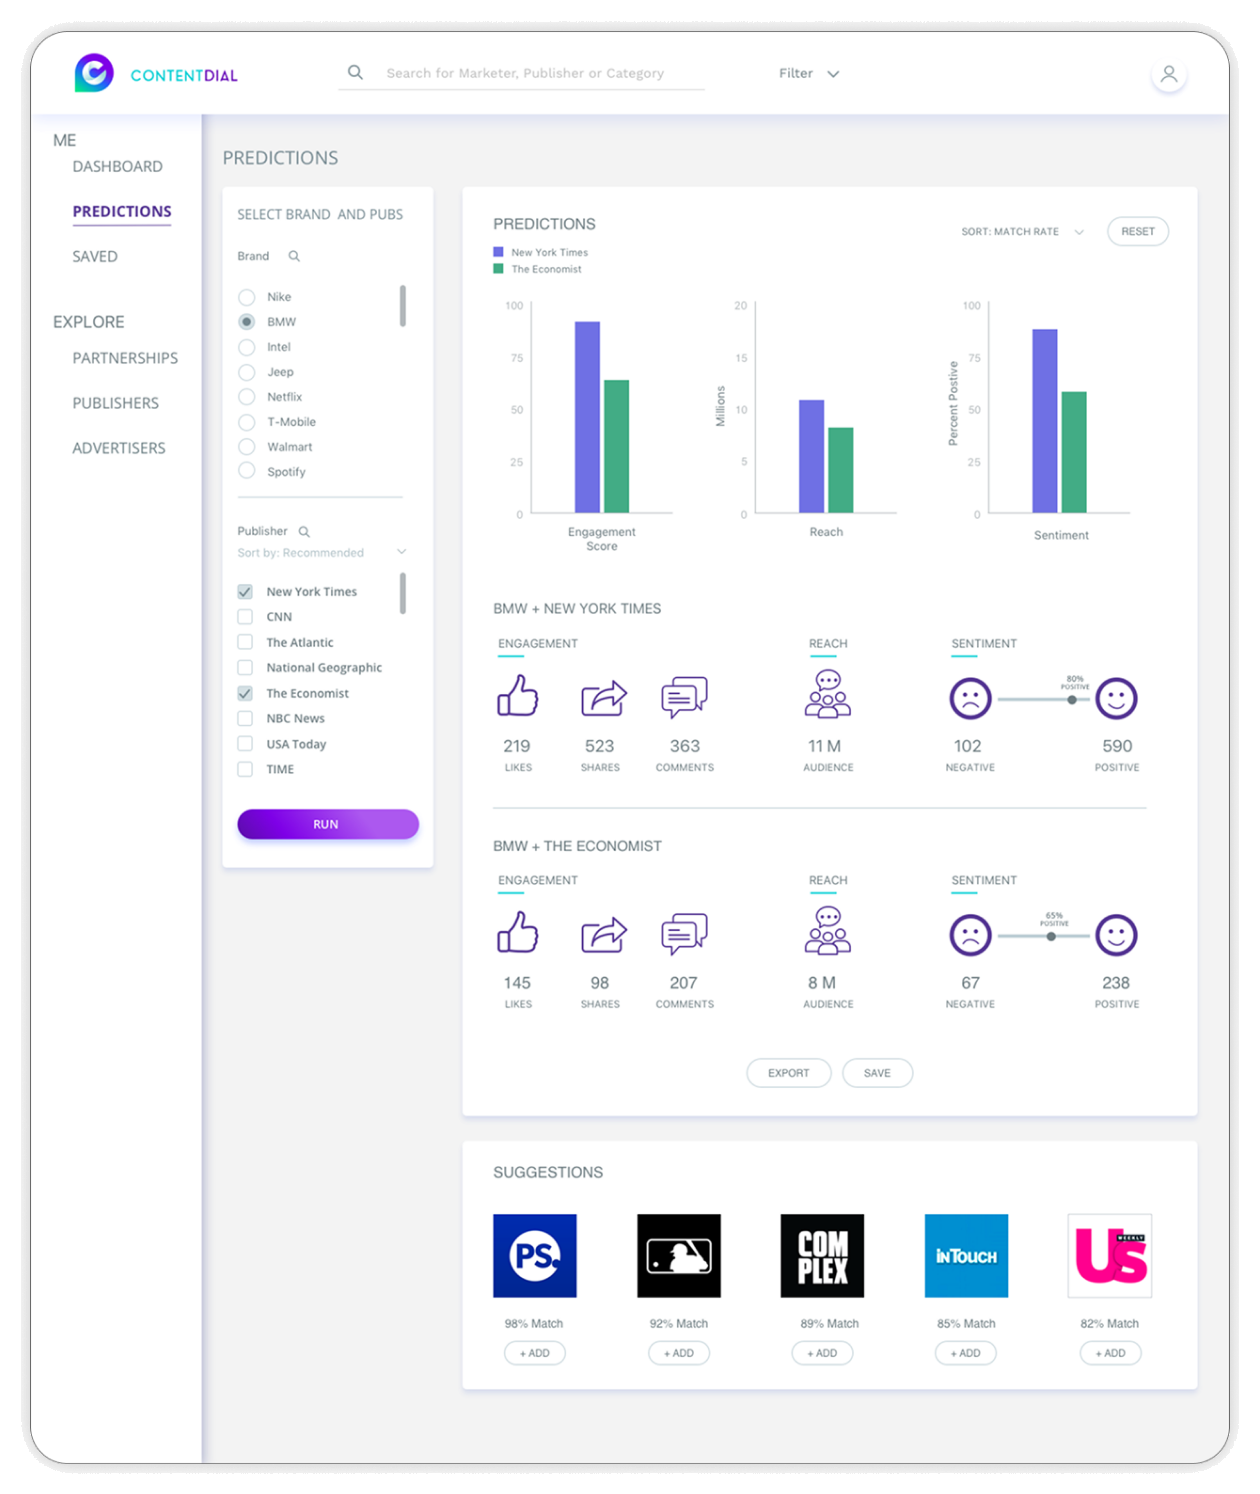
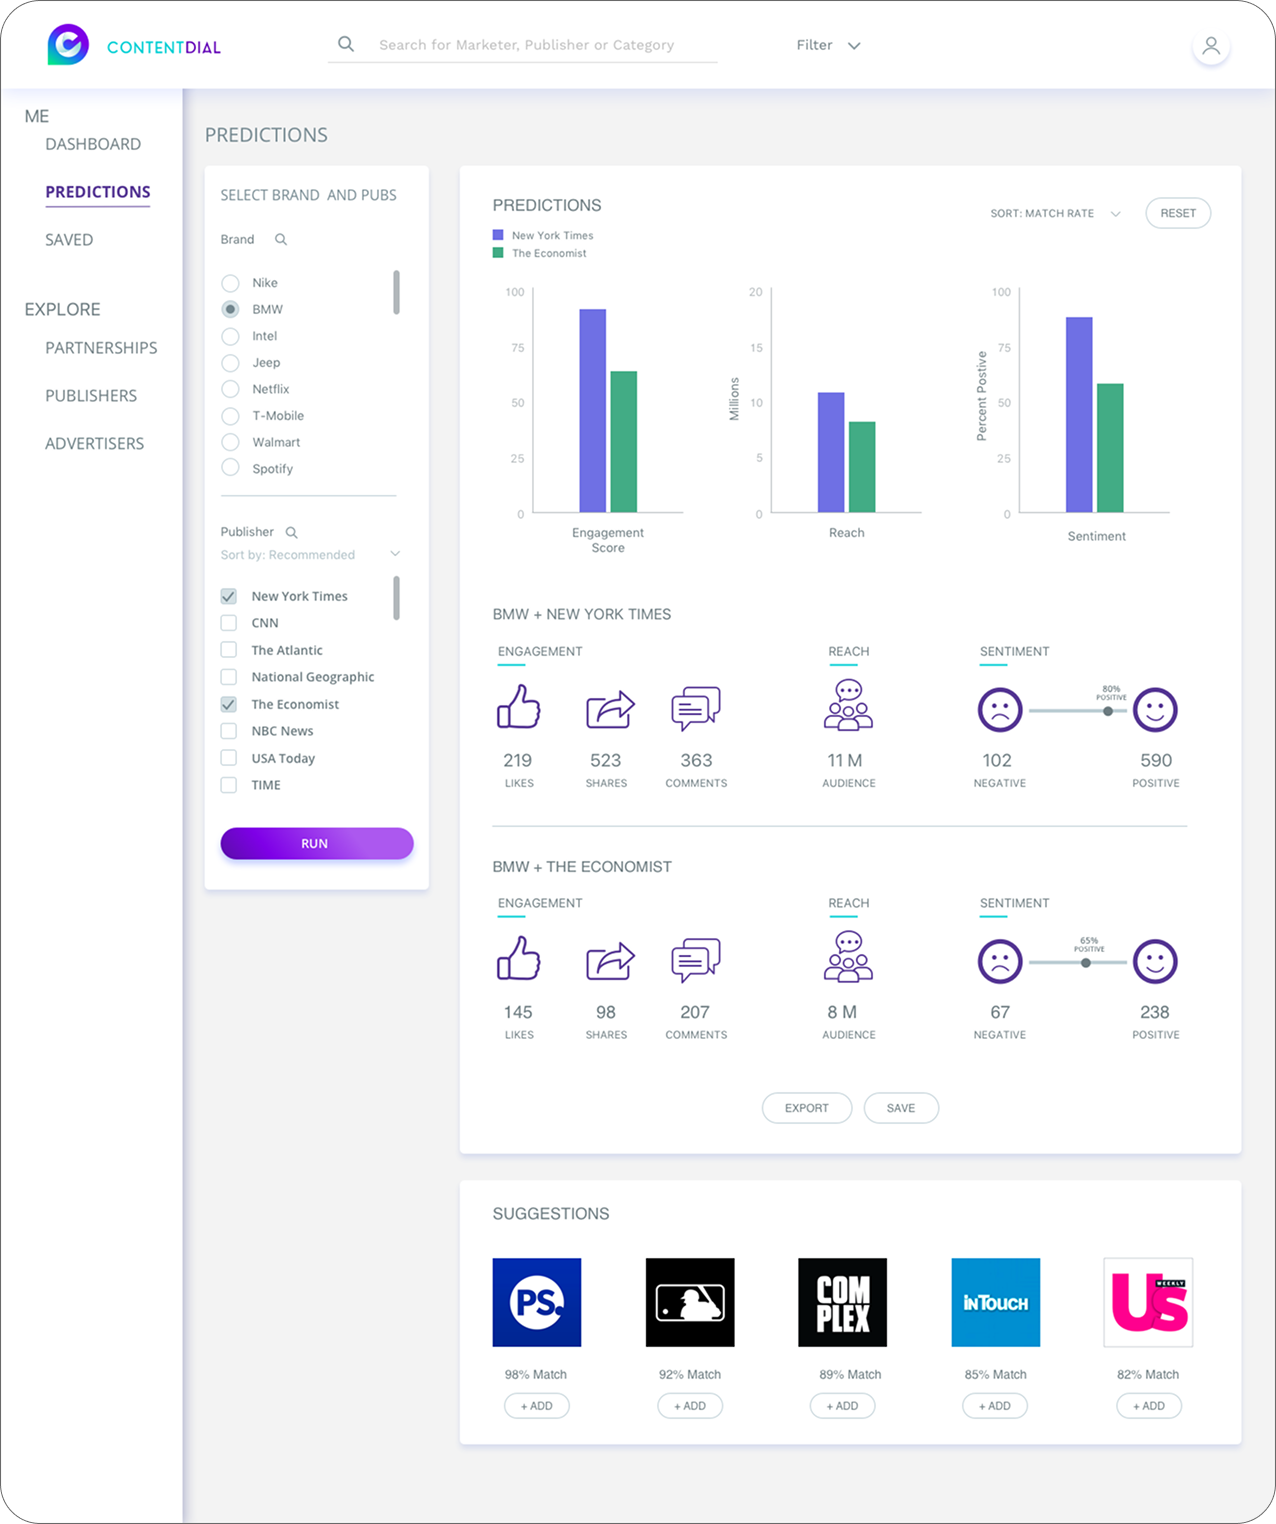
Replace cd-screens with raw Figma fills; clip with rounded wrapper
Use the image fill assets directly from Figma (no outer gray frame).
Wrap each screen in rounded-[30px] overflow-hidden + box-shadow to match
the Figma design exactly, replacing the drop-shadow filter approach.

diff --git a/src/app/contentdial/page.tsx b/src/app/contentdial/page.tsx
@@ -282,14 +282,22 @@ export default function ContentDial() {
           </div>
           {/* Screen shots */}
           <div className="flex flex-col gap-8">
-            {/* eslint-disable-next-line @next/next/no-img-element */}
-            <img src={imgScreen1} alt="ContentDial screen 1" className="w-full h-auto block" style={{ filter: "drop-shadow(0 0 24px rgba(0,0,0,0.22))" }} />
-            {/* eslint-disable-next-line @next/next/no-img-element */}
-            <img src={imgScreen2} alt="ContentDial screen 2" className="w-full h-auto block" style={{ filter: "drop-shadow(0 0 24px rgba(0,0,0,0.22))" }} />
-            {/* eslint-disable-next-line @next/next/no-img-element */}
-            <img src={imgScreen3} alt="ContentDial screen 3" className="w-full h-auto block" style={{ filter: "drop-shadow(0 0 24px rgba(0,0,0,0.22))" }} />
-            {/* eslint-disable-next-line @next/next/no-img-element */}
-            <img src={imgScreen4} alt="ContentDial screen 4" className="w-full h-auto block" style={{ filter: "drop-shadow(0 0 24px rgba(0,0,0,0.22))" }} />
+            <div className="w-full rounded-[30px] overflow-hidden" style={{ boxShadow: "0 0 30px rgba(0,0,0,0.25)" }}>
+              {/* eslint-disable-next-line @next/next/no-img-element */}
+              <img src={imgScreen1} alt="ContentDial screen 1" className="w-full h-auto block" />
+            </div>
+            <div className="w-full rounded-[30px] overflow-hidden" style={{ boxShadow: "0 0 30px rgba(0,0,0,0.25)" }}>
+              {/* eslint-disable-next-line @next/next/no-img-element */}
+              <img src={imgScreen2} alt="ContentDial screen 2" className="w-full h-auto block" />
+            </div>
+            <div className="w-full rounded-[30px] overflow-hidden" style={{ boxShadow: "0 0 30px rgba(0,0,0,0.25)" }}>
+              {/* eslint-disable-next-line @next/next/no-img-element */}
+              <img src={imgScreen3} alt="ContentDial screen 3" className="w-full h-auto block" />
+            </div>
+            <div className="w-full rounded-[30px] overflow-hidden" style={{ boxShadow: "0 0 30px rgba(0,0,0,0.25)" }}>
+              {/* eslint-disable-next-line @next/next/no-img-element */}
+              <img src={imgScreen4} alt="ContentDial screen 4" className="w-full h-auto block" />
+            </div>
           </div>
         </section>
 
